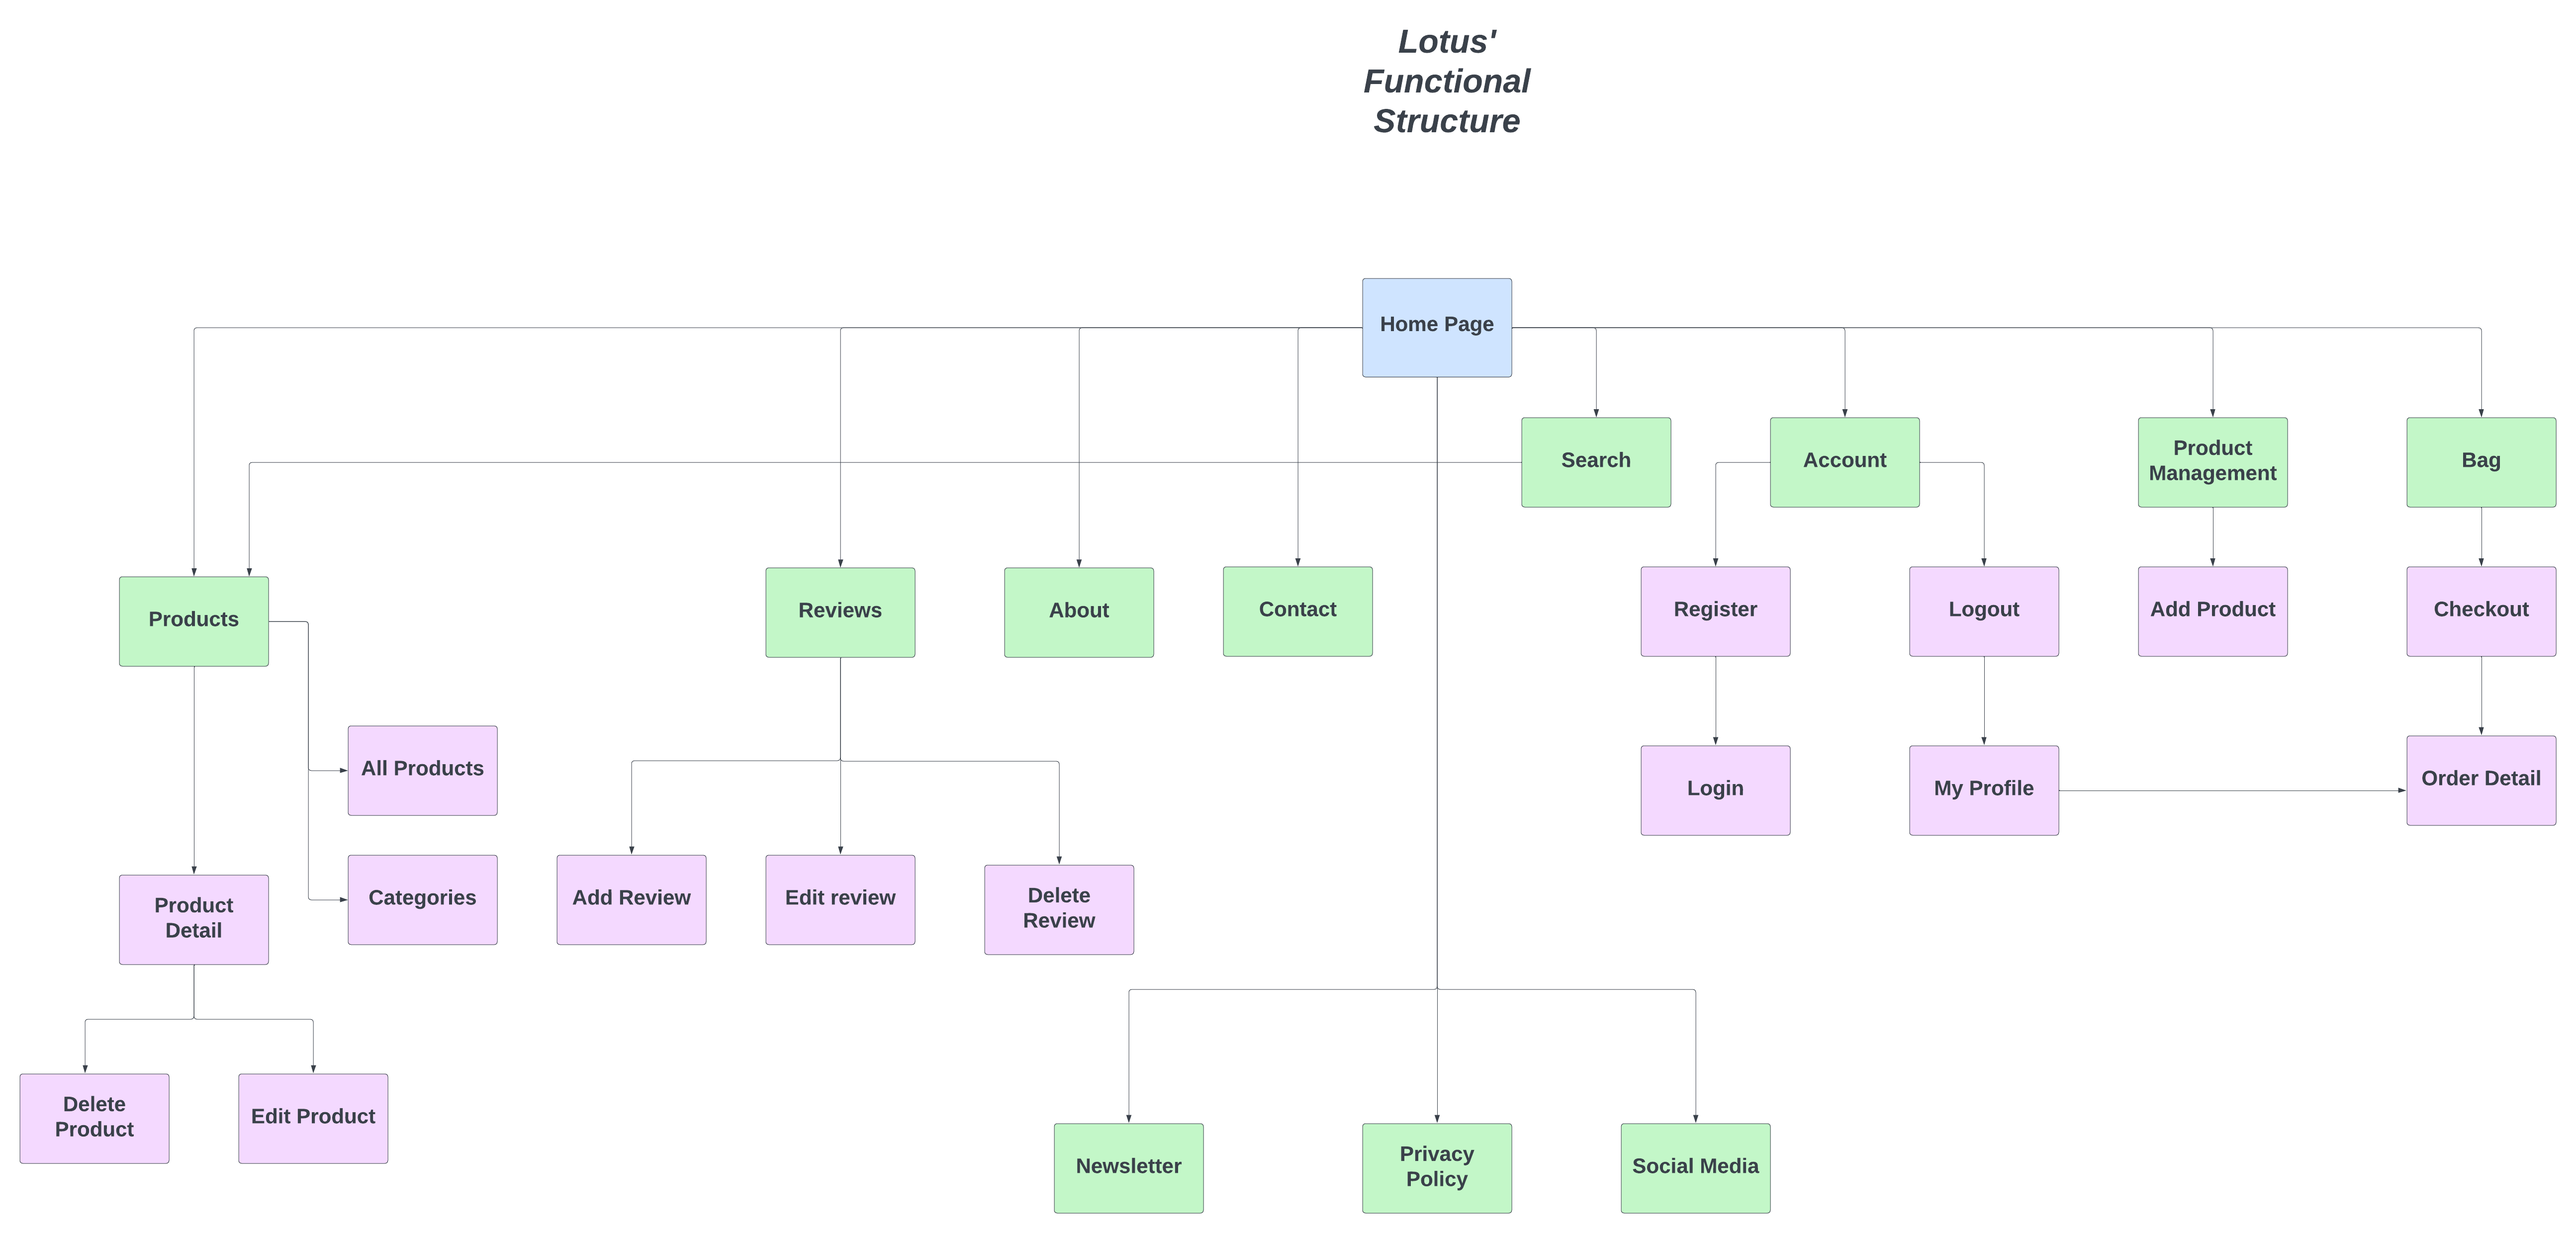
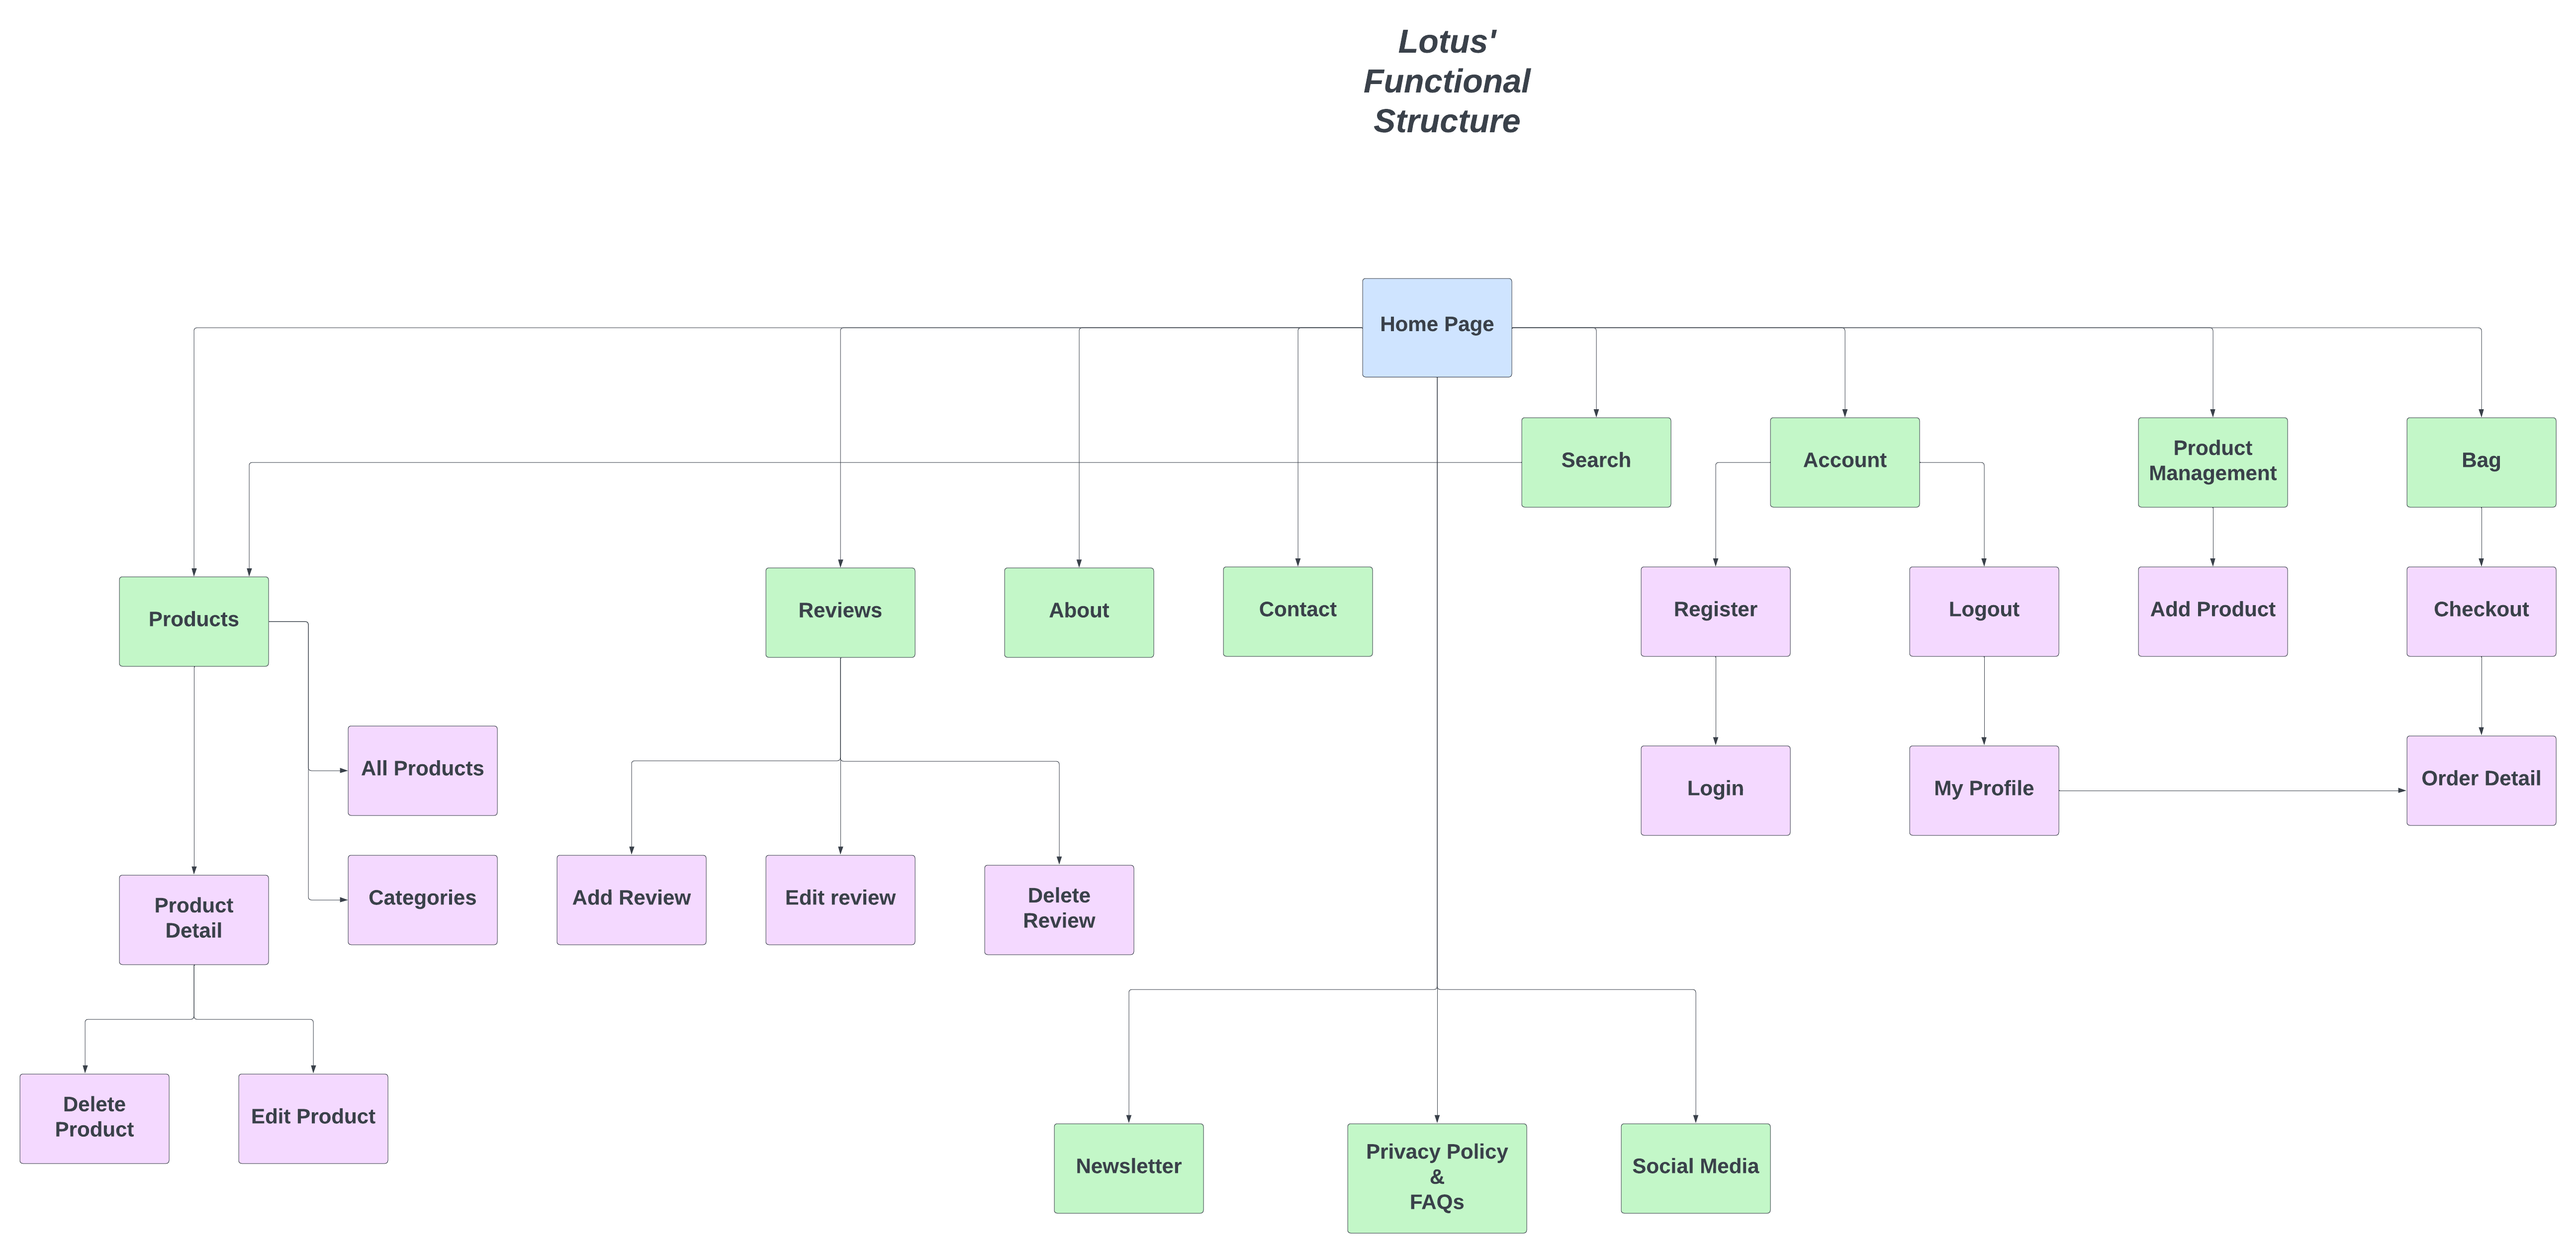
Docs: update section feature README.md

diff --git a/README.md b/README.md
@@ -18,7 +18,7 @@
  
  - Lotus  is built using Django full-stack framework and uses a Relational Database. Technologies used include HTML, CSS, Javascript, Python, and Stripe payments.
 
- - Lotus is an application that envourages sex-positivity amongst women. 
+ - Lotus is an application that envourages sex-positivity and self-pleasure. 
  - It's an online sexshop that proposes high quality silicone hygiene safe adult toys.
  - The site offers a great spectrum of vibrators and entertains a luxury and playfull aesthetic touch.
 
@@ -124,11 +124,11 @@ Key features include:
 
 ### Target Audience
 
-- Women who are curious to discover self-pleasure with sex toys
-- Women who care about hight quality body safe product
-- Women who are sex positivity supporters
+- People who are curious to discover self-pleasure with sex toys
+- People who care about hight quality body safe product
+- People who are sex positivity supporters
 
-User 1: The typical site user would be a female who has an interest in self care and self pleasure in her sexuality.
+User 1: The typical site user would be a person who has an interest in self care and self pleasure in his sexuality.
 User 2: Additional site users could be partner of user 1 and may be browsing the site to purchase gifts.
 
 
@@ -153,6 +153,8 @@ User 2: Additional site users could be partner of user 1 and may be browsing the
 | 5                              | shopper    | search all products                                                    | find what I am looking for.                                                       |
 | 6                              | shopper    | sort all products                                                      | view products based on price or title.                                            |
 | 7                              | site user  | read reviews left by other customers                                   | have feedback insights from customers.                                            |
+| 7                              | site user  | read reviews left by other customers                                   | have feedback insights from customers.                                            |
+| 7b                             | site user  | read FAQs left by owner.                                               | get more precise information.                                                     |
 | Registration and User Accounts |            |                                                                        |                                                                                   |
 | 8                              | site user  | register an account                                                    | have a personal account and see my profile.                                       |
 | 9                              | site user  | login or logout                                                        | access my personal info/keep my account secure.                                   |
@@ -629,6 +631,12 @@ Authentication was implemented using Django's built-in authentication system:
 
 ### Bag
 
+- Bag Page is accessible when the user clicks to the shopping bag icon.
+- Bag Page contains quantity adjustment option, product removal option and uptdate option
+- Bag Page displays subtotal, delivery cost and grand total
+- bag Page contains keep shopping button and go to secure checkout button
+
+
 <details>
 <summary>Bag images</summary>
 <img src="">
@@ -639,8 +647,27 @@ Authentication was implemented using Django's built-in authentication system:
 
 ### Checkout
 
+- Checkout page contains a form, including sections for personal info, contact details and card details
+- Checkout page contains options to save details to profile for authenticated users. If the user is a guest, a link to create an account or login will be present.
+- Checkout page contains current ordres summary
+- Checkout page contains an adjust bag button and a complete order button
+
 <details>
 <summary>Checkout images</summary>
+<img src="">
+<img src="">
+</details>
+
+---
+
+### Checkout Success page
+
+- Checkout Success page contains confirmation order and informs user that an email was sent to his registered email.
+- Checkout Success page displays order details, contact and billing info
+- Checkout Success page contains and Keep shopping button
+
+<details>
+<summary>Checkout Success images</summary>
 <img src="">
 <img src="">
 </details>
@@ -666,8 +693,52 @@ Authentication was implemented using Django's built-in authentication system:
 
 ### Reviews
 
+- Add review page is accessible by clicking add review button
+- Add review page contains a form
+- Add review page contains a cancel button and a add review button
+
+
+<details>
+<summary> Add Review images</summary>
+<img src="">
+<img src="">
+</details>
+
+---
+
+### Add Review
+
+- Reviews page is accessible by clicking the link reviews in the navbar.
+- Reviews page contains reviews made by users and a button add review if user is authenticated, otherwise a msg to invite him to register in order to post a review
+
 <details>
 <summary>Reviews images</summary>
+<img src="">
+<img src="">
+</details>
+
+---
+
+### Edit Review
+
+- Edit Review page is accessible by clicking the edit button, only displayed for the user who owns the reviews - must be authenticated.
+- Edit Review page contains a form pre-populated with the existing review text
+- Edut review page contains edit button and cancel button
+
+<details>
+<summary>Edit review images</summary>
+<img src="">
+<img src="">
+</details>
+
+---
+
+### Delete Review
+
+- Delete review page contains a delete button and a cancel button
+
+<details>
+<summary>Delete review images</summary>
 <img src="">
 <img src="">
 </details>
@@ -710,6 +781,20 @@ Authentication was implemented using Django's built-in authentication system:
 
 <details>
 <summary>Thank you image</summary>
+<img src="">
+<img src="">
+</details>
+
+---
+
+### About Us Page
+
+- About us page is accessible by clicking the link about us in the navbar
+- About us page contains a text about Lotus and a button home
+
+
+<details>
+<summary>About Us image</summary>
 <img src="">
 <img src="">
 </details>
